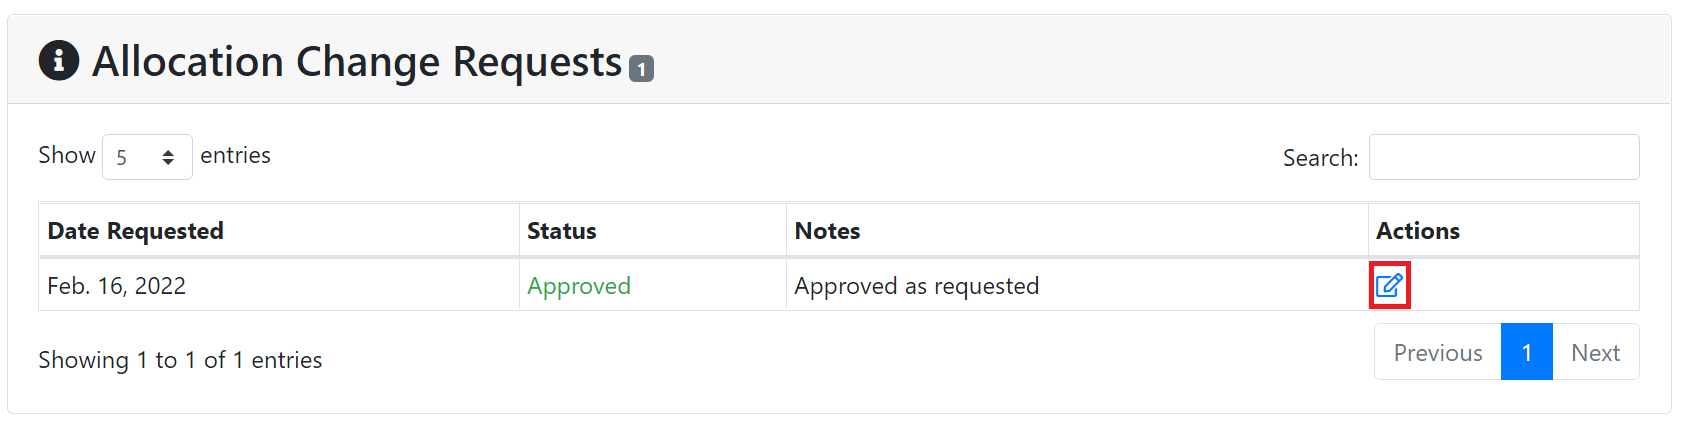
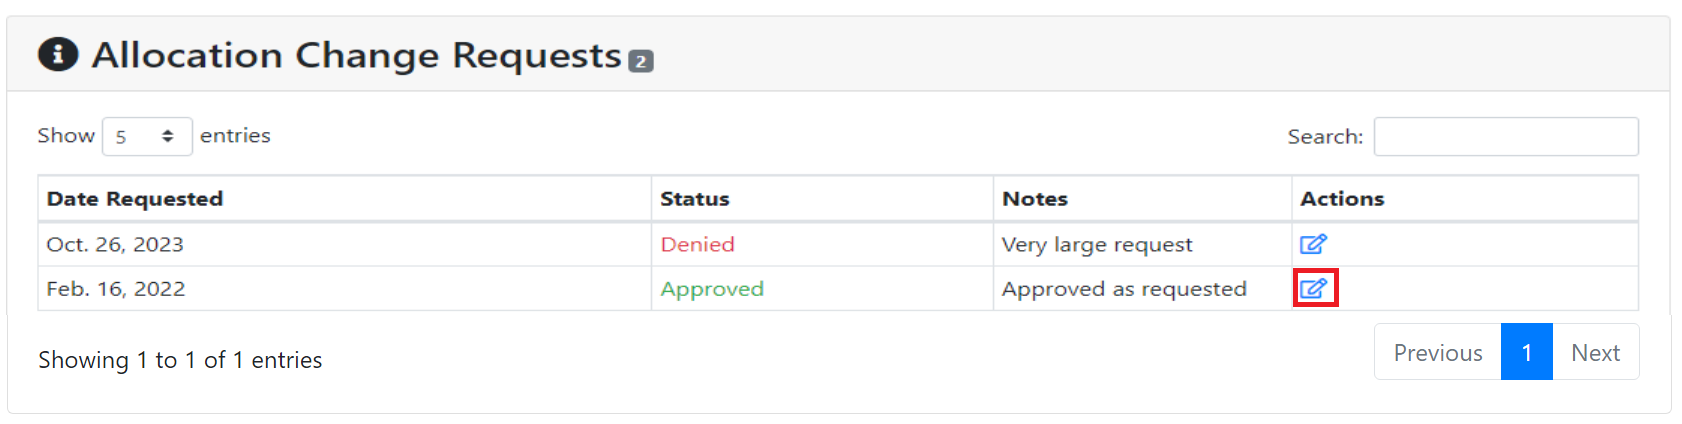
fixing issue till allocation change request

diff --git a/docs/get-started/allocation/allocation-change-request.md b/docs/get-started/allocation/allocation-change-request.md
@@ -1,21 +1,39 @@
 # Request change to Resource Allocation to an existing project
 
 If past resource allocation is not sufficient for an existing project, PIs or project
-managers can request for change by clicking "Request Change" button on project
+managers can request a change by clicking "Request Change" button on project
 resource allocation detail page as show below:
 
 ![Request Change Resource Allocation](images/coldfront-request-change-allocation.png)
 
-This will bring up the detailed Quota attributes for that project as shown below:
-
 ## Request Change Resource Allocation Attributes for OpenStack Project
+
+This will bring up the detailed Quota attributes for that project as shown below:
 
 ![Request Change Resource Allocation Attributes for OpenStack Project](images/coldfront-openstack-allocation-attributes.png)
 
+PI or project managers can provide a new value for the individual quota attributes,
+and give justification for the requested changes so that the NERC admin can review
+the change request and approve or deny based on justification and quota change request.
+Then submitting the change request, this will notify the NERC admin about it. Please
+wait untill the NERC admin approves/ deny the change request to see the change on
+your resource allocation for the selected project.
+
+!!! info "Information"
+    PI or project managers can put the new values on the textboxes for **ONLY**
+    quota attributes they want to change others they can be left **blank** so those
+    quotas will not get changed!
+
 ### Allocation Change Requests for OpenStack Project
 
+Once the request is processed by the NERC admin, any user can view that request
+change trails for the project by looking at the "Allocation Change Requests"
+section that looks like below:
+
+![Allocation Change Requests for OpenStack Project](images/coldfront-openstack-allocation-change-requests.png)
+
 Any user can click on Action button to view the details about the change request.
-This will show more details about the change request like below:
+This will show more details about the change request as shown below:
 
 ![Allocation Change Request Details for OpenStack Project](images/coldfront-openstack-change-requested-details.png)
 
@@ -35,18 +53,16 @@ your resource allocation for the selected project.
     quota attributes they want to change others they can be left **blank** so those
     quotas will not get changed!
 
-Once the request is processed by the NERC admin, any user can view that request change
-trails for the project by looking at the "Allocation Change Requests" section that
-looks like below:
-
-![Allocation Change Requests for OpenStack Project](images/coldfront-openstack-allocation-change-requests.png)
-
 ### Allocation Change Requests for OpenShift Project
+
+Once the request is processed by the NERC admin, any user can view that request
+change trails for the project by looking at the "Allocation Change Requests"
+section that looks like below:
 
 ![Allocation Change Requests for OpenShift Project](images/coldfront-openshift-allocation-change-requests.png)
 
 Any user can click on Action button to view the details about the change request.
-This will show more details about the change request like below:
+This will show more details about the change request as shown below:
 
 ![Allocation Change Request Details for OpenShift Project](images/coldfront-openshift-change-requested-details.png)
 

diff --git a/docs/get-started/allocation/adding-a-new-allocation.md b/docs/get-started/allocation/adding-a-new-allocation.md
@@ -4,8 +4,8 @@ If one resource allocation is not sufficient for a project, PI or project manage
 can request for another allocation(s) by clicking on the "Request Resource Allocation"
 button on the Allocations section of the project details. This will show the page
 where all existing users for the project will be listed on the bottom of the request
-form. PIs can select all or only desired user(s) to request the resource allocations
-to be available on NERC's OpenStack or OpenShift projects.
+form. PIs can select desired user(s) to request the resource allocations to be
+available on NERC's OpenStack or OpenShift projects.
 
 ![Adding a new Resource Allocation](images/adding_new_resource_allocations.png)
 

diff --git a/docs/get-started/allocation/adding-a-project.md b/docs/get-started/allocation/adding-a-project.md
@@ -9,7 +9,7 @@ the Project menu.
 
 ![Project](images/coldfront-project.png)
 
-On clicking the "Add a project" button will show interface like below:
+Clicking on the "Add a project" button will show the interface below:
 
 ![Add A Project](images/coldfront-add-a-project.png)
 
